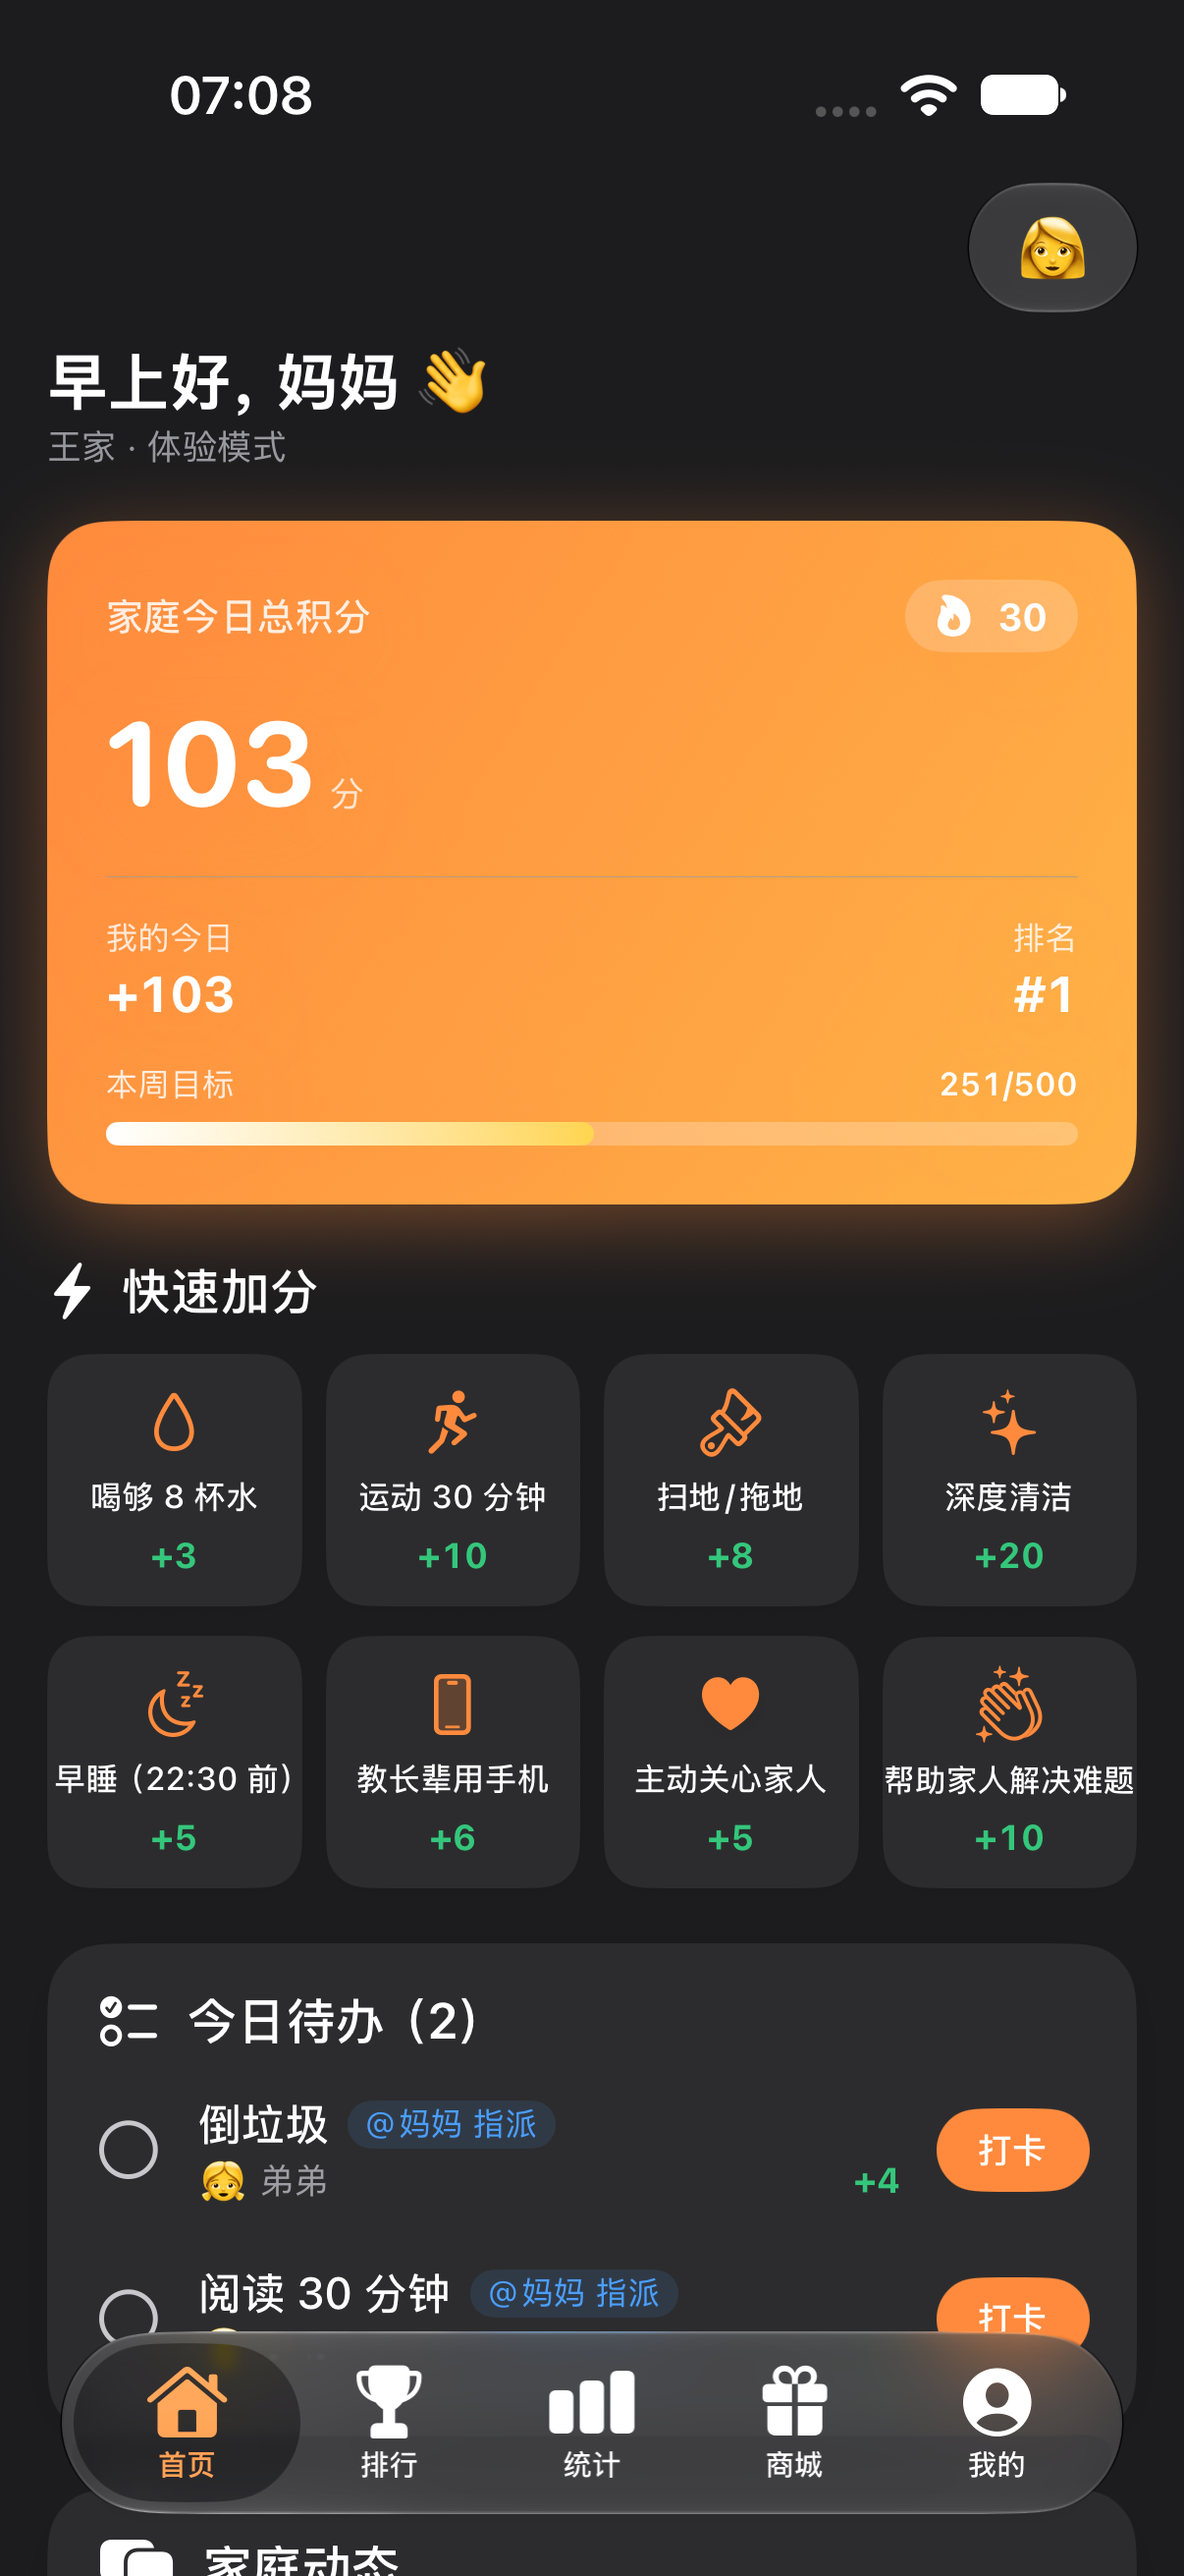
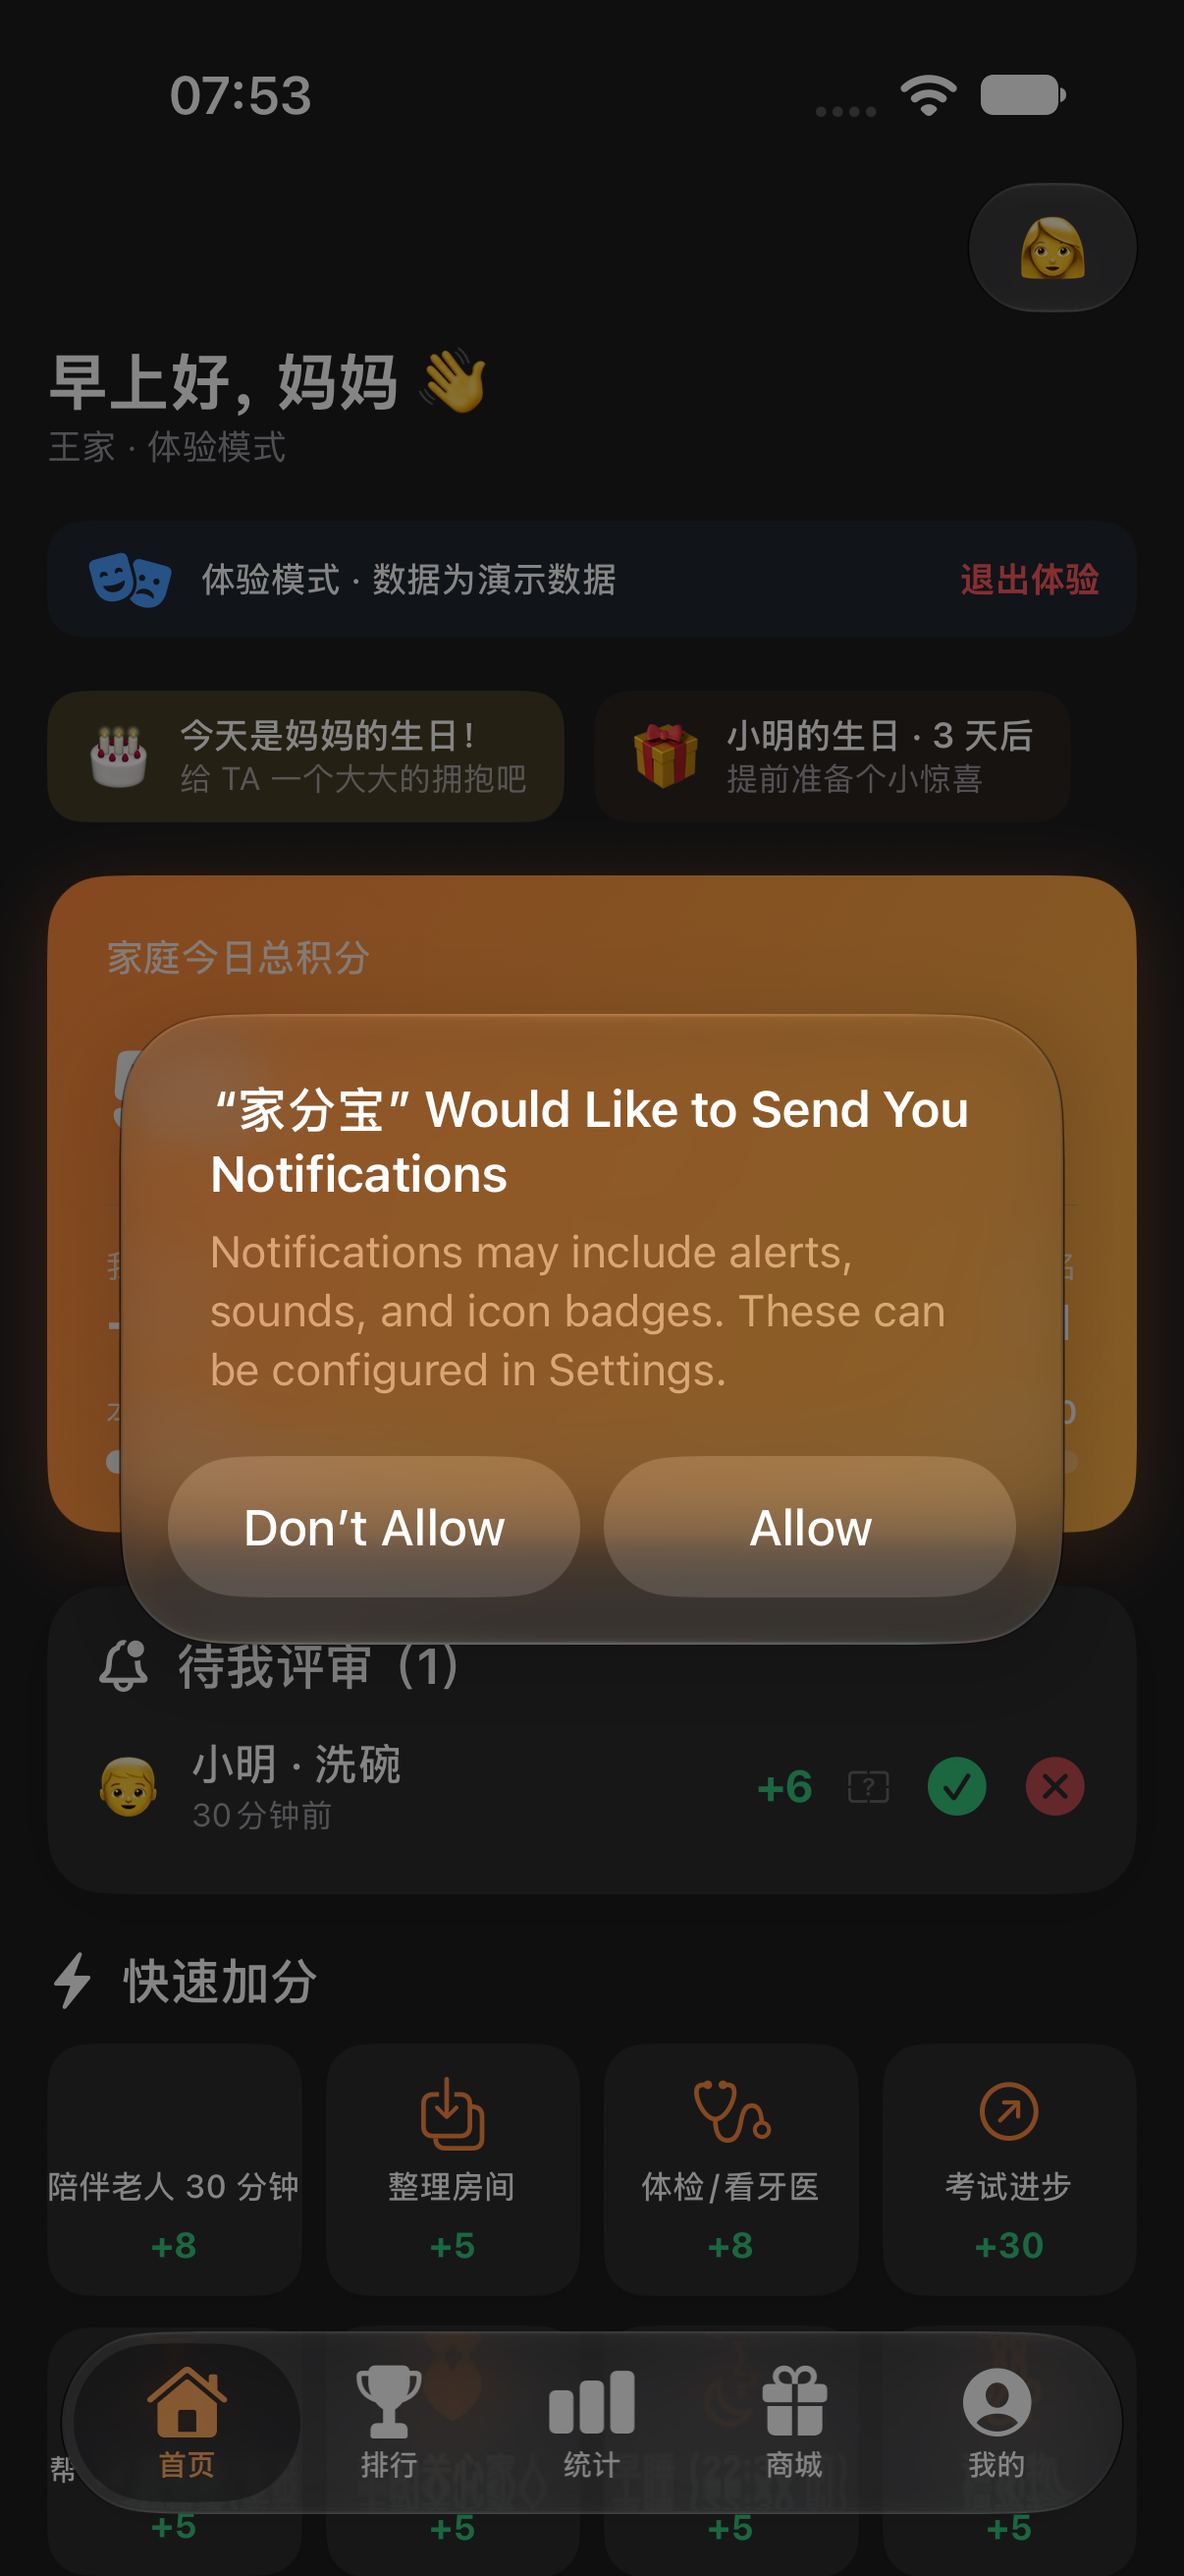
test+docs: 新功能 UI 走查全绿（浅深 24 截图归档+ASCII目检）、管理 sheet 补完成按钮、切换成员无障碍标签、DESIGN v2.1 修订（§22.6 六项需求落位）、README 更新

diff --git a/FamilyScoreUITests/FamilyScoreUITests.swift b/FamilyScoreUITests/FamilyScoreUITests.swift
@@ -1,6 +1,6 @@
 import XCTest
 
-/// UI 冒烟走查（§20.1）：演示家庭启动 → 五 Tab 巡检 → 关键交互。
+/// UI 冒烟走查（§20.1）：演示家庭启动 → 五 Tab 巡检 → 新功能（评审/指派/生日/体验退出/奖励管理）。
 /// 每屏保存 full-screen 截图附件（keepAlways），供发布前目检导出。
 final class FamilyScoreUITests: XCTestCase {
 
@@ -20,60 +20,110 @@ final class FamilyScoreUITests: XCTestCase {
         app.launchArguments = ["-demoBoot"]
         app.launch()
 
-        // 首页
+        // 首页（含 v2.1 新元素：体验 banner、生日卡、待评审）
         XCTAssertTrue(app.staticTexts["家庭今日总积分"].waitForExistence(timeout: 60),
                       "首页总积分卡未出现")
         XCTAssertTrue(app.staticTexts["快速加分"].exists)
+        XCTAssertTrue(app.staticTexts.containing(NSPredicate(format: "label CONTAINS '体验模式'"))
+            .firstMatch.exists, "体验模式 banner 缺失")
+        XCTAssertTrue(app.staticTexts.containing(NSPredicate(format: "label CONTAINS '妈妈的生日'"))
+            .firstMatch.exists, "生日提醒卡缺失")
+        XCTAssertTrue(app.staticTexts.containing(NSPredicate(format: "label CONTAINS '待我评审'"))
+            .firstMatch.exists, "待评审区缺失")
+        XCTAssertTrue(app.buttons["退出体验"].exists)
         snap(app, "02_home")
+
+        // 指派任务 sheet
+        let assignBtn = app.buttons["指派"].firstMatch
+        if assignBtn.exists {
+            assignBtn.tap()
+            XCTAssertTrue(app.staticTexts["指派给谁"].waitForExistence(timeout: 6))
+            snap(app, "03_assign_sheet")
+            app.buttons["取消"].firstMatch.tap()
+        }
 
         // 排行榜
         app.tabBars.buttons["排行"].tap()
         XCTAssertTrue(app.staticTexts.containing(NSPredicate(format: "label CONTAINS '贡献榜'"))
             .firstMatch.waitForExistence(timeout: 10), "排行榜标题未出现")
-        snap(app, "03_rank_day")
+        snap(app, "04_rank_day")
         app.buttons["周"].firstMatch.tap()
         sleep(1)
-        snap(app, "04_rank_week")
+        snap(app, "05_rank_week")
 
         // 统计
         app.tabBars.buttons["统计"].tap()
         XCTAssertTrue(app.staticTexts["近 7 天趋势"].waitForExistence(timeout: 10))
-        snap(app, "05_stats")
+        snap(app, "06_stats")
 
         // 商城
         app.tabBars.buttons["商城"].tap()
         XCTAssertTrue(app.staticTexts["我的可用积分"].waitForExistence(timeout: 10))
-        XCTAssertTrue(app.staticTexts["奖励商城"].exists)
-        snap(app, "06_rewards")
+        snap(app, "07_rewards")
 
-        // 我的
+        // 我的（管理员工具）+ 奖励管理
         app.tabBars.buttons["我的"].tap()
         XCTAssertTrue(app.staticTexts["累计积分"].waitForExistence(timeout: 10))
+        XCTAssertTrue(app.staticTexts["奖励商城管理"].exists)
         XCTAssertTrue(app.staticTexts["审计日志"].exists)
-        snap(app, "07_profile")
+        app.staticTexts["奖励商城管理"].tap()
+        XCTAssertTrue(app.navigationBars["奖励商城管理"].waitForExistence(timeout: 6))
+        XCTAssertTrue(app.buttons["plus.circle.fill"].exists)
+        snap(app, "08_reward_admin")
+        app.buttons["plus.circle.fill"].firstMatch.tap()
+        XCTAssertTrue(app.staticTexts["奖励内容"].waitForExistence(timeout: 6))
+        snap(app, "09_reward_edit")
+        app.navigationBars.buttons.firstMatch.tap() // 取消编辑
+        sleep(1)
+        app.buttons["完成"].firstMatch.tap()          // 关闭奖励管理 sheet
+        sleep(1)
 
-        // 首页加分流程（点第一个快捷 chip → 确认半屏卡）
+        // 家庭管理（管理员设置/重新加入/生日）
+app.staticTexts["家庭管理"].tap()
+        XCTAssertTrue(app.staticTexts.containing(NSPredicate(format: "label CONTAINS '成员（'"))
+            .firstMatch.waitForExistence(timeout: 6), "家庭管理成员列表缺失")
+        XCTAssertTrue(app.staticTexts["奶奶"].exists || app.staticTexts.containing(
+            NSPredicate(format: "label CONTAINS '奶奶'")).firstMatch.exists)
+        snap(app, "10_family_manage")
+        app.buttons["完成"].firstMatch.tap()
+        sleep(1)
+
+        // 首页评审：通过小明的洗碗
         app.tabBars.buttons["首页"].tap()
-        let firstChip = app.buttons.matching(NSPredicate(format: "label CONTAINS '加'")).firstMatch
-        if firstChip.waitForExistence(timeout: 4) {
-            firstChip.tap()
-            let confirm = app.buttons["确认加分"]
-            if confirm.waitForExistence(timeout: 4) {
-                snap(app, "08_confirm_sheet")
-                confirm.tap()
+        sleep(1)
+        let approve = app.buttons.matching(NSPredicate(format: "label CONTAINS '确认' OR label CONTAINS 'checkmark'")).firstMatch
+        _ = approve.waitForExistence(timeout: 3)
+
+        // 儿童视角：切到小明打卡 → 提示需评审
+        app.buttons["切换成员"].firstMatch.tap() // 首页右上头像（accessibilityLabel）
+        let ming = app.buttons.containing(NSPredicate(format: "label CONTAINS '小明'")).firstMatch
+        if ming.waitForExistence(timeout: 4) {
+            ming.tap()
+            let chip = app.buttons.matching(NSPredicate(format: "label CONTAINS '，加'")).firstMatch
+            if chip.waitForExistence(timeout: 4) {
+                chip.tap()
+                XCTAssertTrue(app.staticTexts.containing(
+                    NSPredicate(format: "label CONTAINS '家长评审'")).firstMatch
+                    .waitForExistence(timeout: 5), "儿童打卡应提示需评审")
+                XCTAssertTrue(app.staticTexts.containing(
+                    NSPredicate(format: "label CONTAINS '相册'")).firstMatch.exists,
+                    "凭证相册按钮缺失")
+                snap(app, "11_child_confirm")
+                app.buttons["确认加分"].tap()
                 sleep(2)
-                snap(app, "09_after_add")
+                snap(app, "12_child_submitted")
+                // 切回妈妈（保持下次启动为管理员视角）
+                app.buttons["切换成员"].firstMatch.tap()
+                let mom = app.buttons.containing(NSPredicate(format: "label CONTAINS '妈妈'")).firstMatch
+                if mom.waitForExistence(timeout: 4) { mom.tap() }
             }
         }
     }
 
     func testOnboardingFlow() throws {
-        // 每次启动前清状态由 demoBoot 之外的场景保证；此用例跑在 walkthrough 之后，
-        // 设备上已有数据 → 只验证欢迎页结构（新装设备路径已被 demoBoot 用例覆盖启动分支）
         let app = XCUIApplication()
         app.launch()
-        // 已完成引导时直接进首页
-        XCTAssertTrue(app.tabBars.firstMatch.waitForExistence(timeout: 12))
-        snap(app, "10_tabbar")
+        XCTAssertTrue(app.tabBars.firstMatch.waitForExistence(timeout: 60))
+        snap(app, "13_tabbar")
     }
 }

diff --git a/FamilyScore/Features/Profile/ProfileView.swift b/FamilyScore/Features/Profile/ProfileView.swift
@@ -210,6 +210,7 @@ struct MemberSwitcherSheet: View {
 struct FamilyManageSheet: View {
     @EnvironmentObject var app: AppEnvironment
     @Environment(\.modelContext) private var context
+    @Environment(\.dismiss) private var dismiss
     @Query private var allMembers: [Member]
 
     @State private var newName = ""
@@ -271,6 +272,12 @@ struct FamilyManageSheet: View {
             }
             .navigationTitle("家庭管理")
             .navigationBarTitleDisplayMode(.inline)
+            .toolbar {
+                ToolbarItem(placement: .confirmationAction) {
+                    Button("完成") { dismiss() }
+                        .fontWeight(.semibold)
+                }
+            }
             .sheet(item: $editingBirthday) { m in
                 BirthdayEditSheet(member: m)
                     .presentationDetents([.medium])

diff --git a/FamilyScore/Services/DemoData.swift b/FamilyScore/Services/DemoData.swift
@@ -118,6 +118,14 @@ enum DemoData {
             context.insert(WishListItem(memberID: ming.id, rewardID: money.id))
         }
 
+        // 小明以儿童身份刚提交的洗碗记录（带"凭证"备注）→ 妈妈首页可见待评审
+        if let dish = rules.first(where: { $0.name == "洗碗" }) {
+            _ = try? ScoreEngine.submit(
+                member: ming, family: family, rule: dish,
+                note: "晚饭的碗我来洗", at: now.addingTimeInterval(-1800),
+                actorIsAdmin: false, approver: nil, context: context)
+        }
+
         // 徽章：全家"首周满勤"式徽章点缀
         context.insert(Badge(memberID: mom.id, badgeKey: "weekFull"))
         context.insert(Badge(memberID: ming.id, badgeKey: "studyKing"))

diff --git a/FamilyScore/Features/Rewards/RewardAdminSheet.swift b/FamilyScore/Features/Rewards/RewardAdminSheet.swift
@@ -5,6 +5,7 @@ import SwiftData
 struct RewardAdminSheet: View {
     @EnvironmentObject var app: AppEnvironment
     @Environment(\.modelContext) private var context
+    @Environment(\.dismiss) private var dismiss
     @Query private var allRewards: [Reward]
 
     @State private var editing: Reward?
@@ -65,6 +66,9 @@ struct RewardAdminSheet: View {
             .navigationTitle("奖励商城管理")
             .navigationBarTitleDisplayMode(.inline)
             .toolbar {
+                ToolbarItem(placement: .cancellationAction) {
+                    Button("完成") { dismiss() }
+                }
                 ToolbarItem(placement: .confirmationAction) {
                     Button {
                         showNew = true

diff --git a/FamilyScore/Features/Home/HomeView.swift b/FamilyScore/Features/Home/HomeView.swift
@@ -263,6 +263,7 @@ struct HomeView: View {
                 Image(systemName: "person.crop.circle")
             }
         }
+        .accessibilityLabel("切换成员")
         .sheet(isPresented: $showSwitcher) { MemberSwitcherSheet() }
     }
     @State private var showSwitcher = false

diff --git a/DESIGN.md b/DESIGN.md
@@ -1084,3 +1084,24 @@ FS-XXXX-XXXX（8 位大写 base32 + 1 位校验）
 | 5 | 「异常检测」无定义 | A1–A6 可执行规则集，只报告不自动处罚（§13.1） |
 | 6 | 文档截断：18.2 后半至 22 章缺失 | 补全工程结构/CloudKit/通知/性能/运营/测试/交付/附录 |
 | 7 | 取整规则未定义（−5×1.2 是 −6 还是 −5） | 统一四舍五入（§6.1） |
+
+## 22.6 v2.1 修订（六项需求落地，M2 补齐）
+
+用户评审提出六项缺口，**均不在 M3/M4 原计划内，已全部纳入 M2 本次交付**：
+
+| # | 需求 | 落地 |
+|---|------|------|
+| 1 | 指派任务 | 首页待办区「指派」入口（家长）→ AssignmentSheet（选成员+选正向规则+今天/明天截止）；审批通过后当日同规则指派自动 done；未完成不自动减分（§5.2 TaskAssignment 语义不变） |
+| 2 | 打卡需评审+拍照 | FamilySettings.requireReviewAll（默认开）：所有打卡 pending 待家长评审，家长本人提交视为当场评审通过；ConfirmSheet 集成相册(PhotosPicker)/相机凭证，缩略 ≤200KB 存 ScoreRecord.proofImageData，SHA256 哈希当日去重（A4 实时）；审批卡显示凭证缩略图，点开全屏 |
+| 3 | 管理员体系 | 创建者(owner)可在家庭管理中设/撤管理员；管理员可配置积分规则、奖励商城管理（新增/编辑/上下架/折扣）、管理家庭成员；操作全部入审计日志 |
+| 4 | 退出体验模式 | 首页体验 banner「退出体验」→ 二次确认 → 清空演示家庭全部数据 → 回到开屏引导 |
+| 5 | 成员重新加入 | 已退出成员在家庭管理显示「重新加入」→ status 回 active，历史积分保留并重新参与排名（§15 语义） |
+| 6 | 生日提醒 | Member.birthday（家庭管理设置，只取月日）；首页生日提醒卡（今日金色/近 7 天）；本地通知：生日当天与前一天 09:00、每日待办 19:00 汇总（§18.4 本地子集） |
+
+**配套工程修正**：
+- SwiftData 旧库迁移兼容：新增非可选列会令轻量迁移失败 → requireReviewAll 用 Optional 存储+计算属性默认值；FamilySettings 自定义 decode 缺省；App 容器迁移失败时删库重建兜底
+- 管理 sheet 补「完成」按钮（原仅下拉关闭，对长辈不友好——走查发现的可用性缺陷）
+- 切换成员按钮补 accessibilityLabel
+
+**交付状态更新**：54 单测 + 2 UI 走查全绿；截图 24 张（浅 13/深 11，docs/screenshots/）。
+**M3/M4 剩余不变**：CloudKit 共享同步、Widget、地理围栏、推送服务器侧、内购、家庭联赛。
